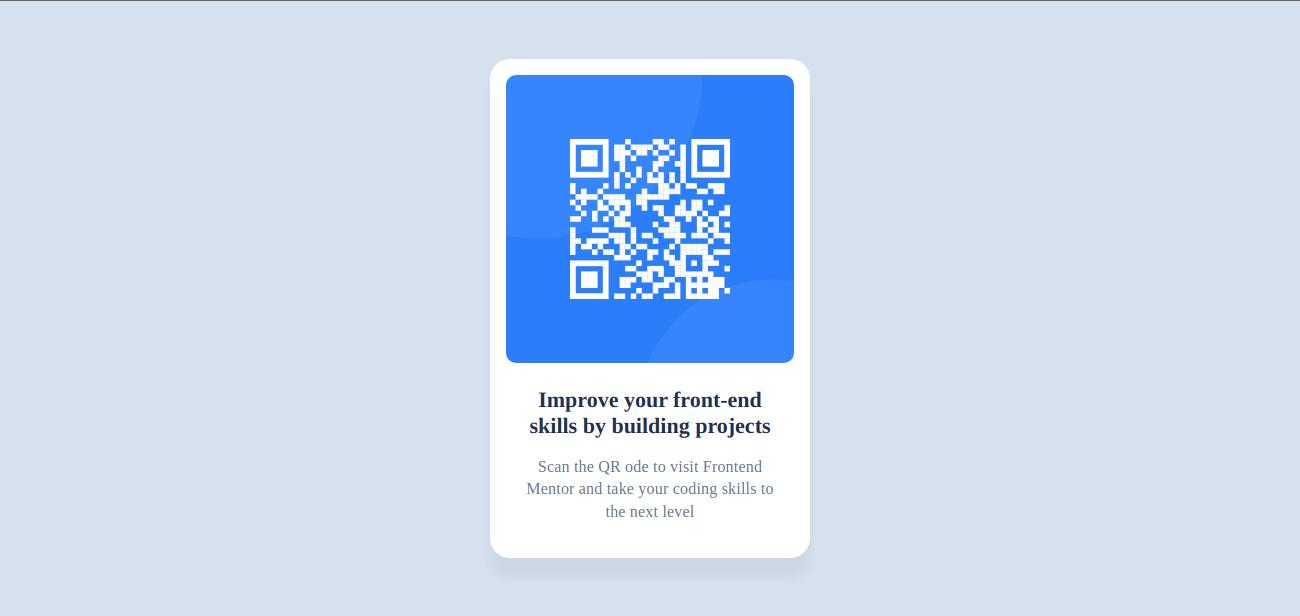
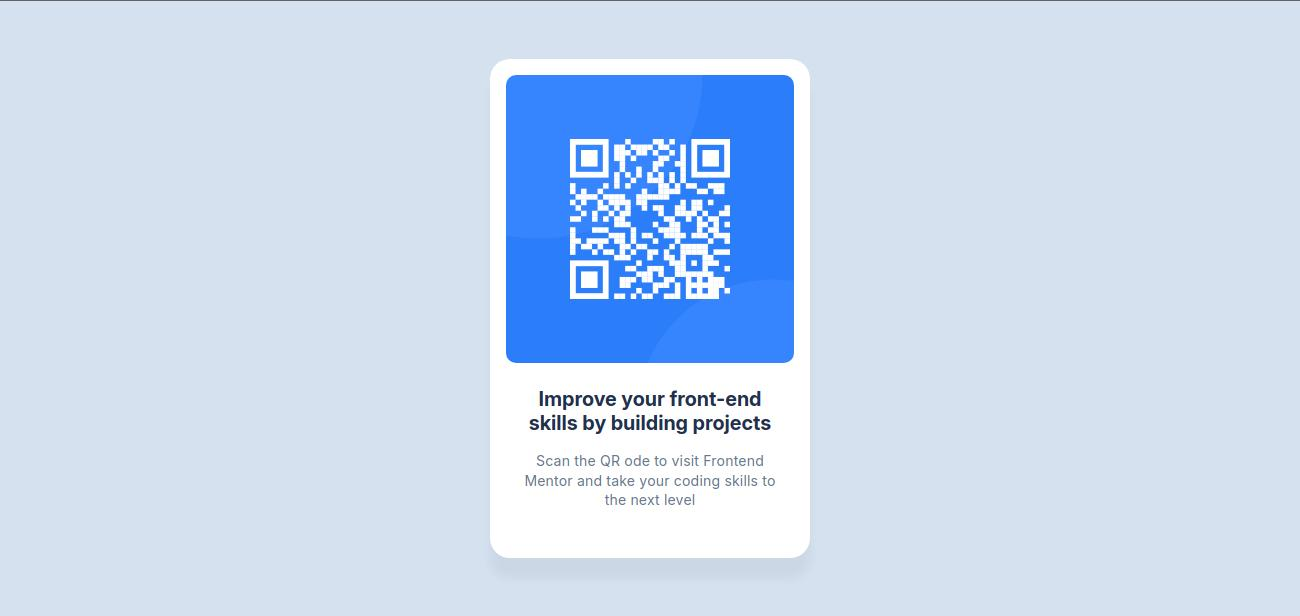
fiz font-family and replace screenshot

Changed region(s): [[0.4, 0.6169, 0.6154, 0.7094], [0.4, 0.7403, 0.6154, 0.8328]]

diff --git a/styles.css b/styles.css
@@ -1,3 +1,5 @@
+@import url('https://fonts.googleapis.com/css2?family=Inter:ital,opsz,wght@0,14..32,100..900;1,14..32,100..900&display=swap');
+
 *,
 *::after,
 *::before {
@@ -13,6 +15,7 @@ body {
   --space-500: 40px;
   --space-300: 24px;
   --space-200: 16px;
+  font-family: 'Inter', sans-serif;
 }
 
 .main {
@@ -57,7 +60,7 @@ body {
 
 .qr-title {
   color: var(--slate-900);
-  font-size: 22px;
+  font-size: 20px;
   font-weight: bold;
   line-height: 120%;
   letter-spacing: 0px;
@@ -66,7 +69,7 @@ body {
 
 .qr-paragraph {
   color: var(--slate-500);
-  font-size: 16px;
+  font-size: 14px;
   line-height: 140%;
   letter-spacing: 0.2px;
   margin: 0;
